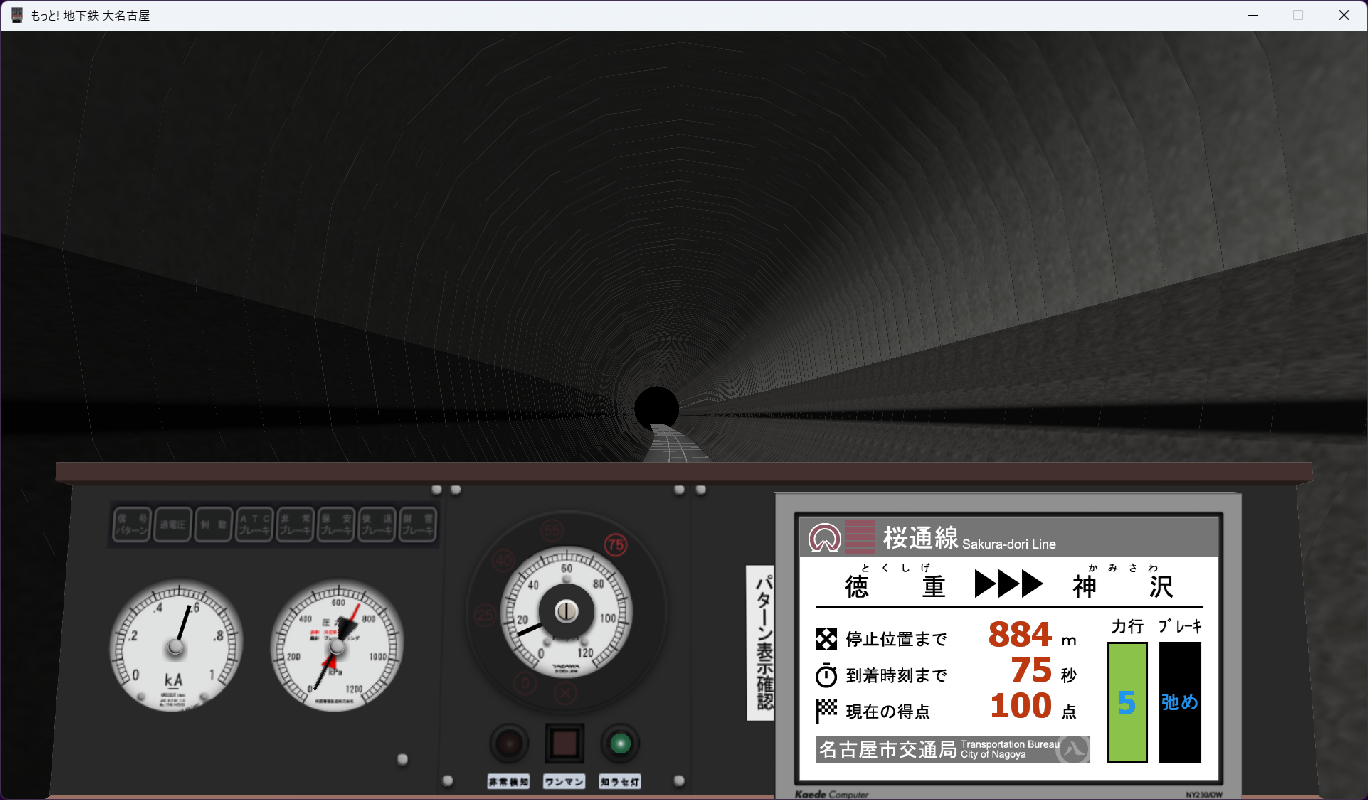
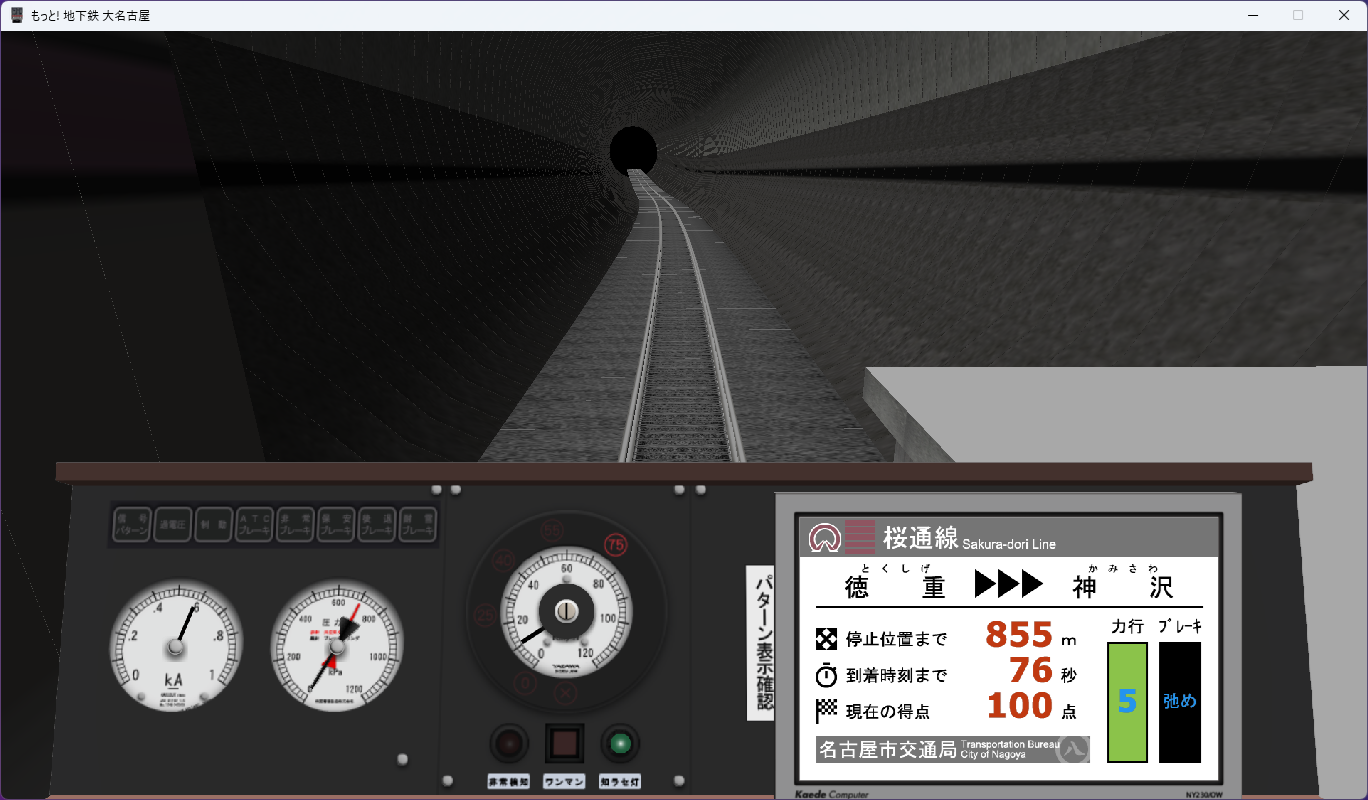
Update Others/Website

diff --git a/Others/Website/index.html b/Others/Website/index.html
@@ -1,4 +1,4 @@
-<!DOCTYPE html>
+<!doctype html>
 <html lang="ja">
   <head>
     <title>もっと! 地下鉄 大名古屋 | Arakawa Laboratory</title>
@@ -78,8 +78,8 @@
         <h1>ダウンロード</h1>
         <h2>Windows版バイナリ</h2>
         <p>
-          <a href="data/MoreSubwayNagoya_0.4.0.zip"
-            >Version 0.4.0 (ZIP 圧縮ファイル / 6.89MB)</a
+          <a href="data/MoreSubwayNagoya_0.4.1.zip"
+            >Version 0.4.1 (ZIP 圧縮ファイル / 6.89MB)</a
           >
         </p>
         <p>
@@ -103,6 +103,13 @@
         </p>
         <br />
         <h1>更新履歴</h1>
+        <p>
+          <b>Version 0.4.1 (2026-05-22)</b><br />
+          ・停車後に停止位置目標が消える問題を修正<br />
+          ・カメラの画角を改善<br />
+          ・圧力計と電流計の挙動を改善<br />
+          ・その他、ドキュメントの軽微な更新
+        </p>
         <p>
           <b>Version 0.4.0 (2026-01-11)</b> -
           コミックマーケット107にて先行配布<br />
@@ -141,7 +148,7 @@
         </div>
         <p>本ソフトウェアは名古屋市交通局及び関連団体の非公式作品です。</p>
         <p>
-          最終更新日 : 2026年1月11日<br />
+          最終更新日 : 2026年5月22日<br />
           Copyright (c) 2023-2026 Sora Arakawa and others. Licensed under the
           MIT License.
         </p>
